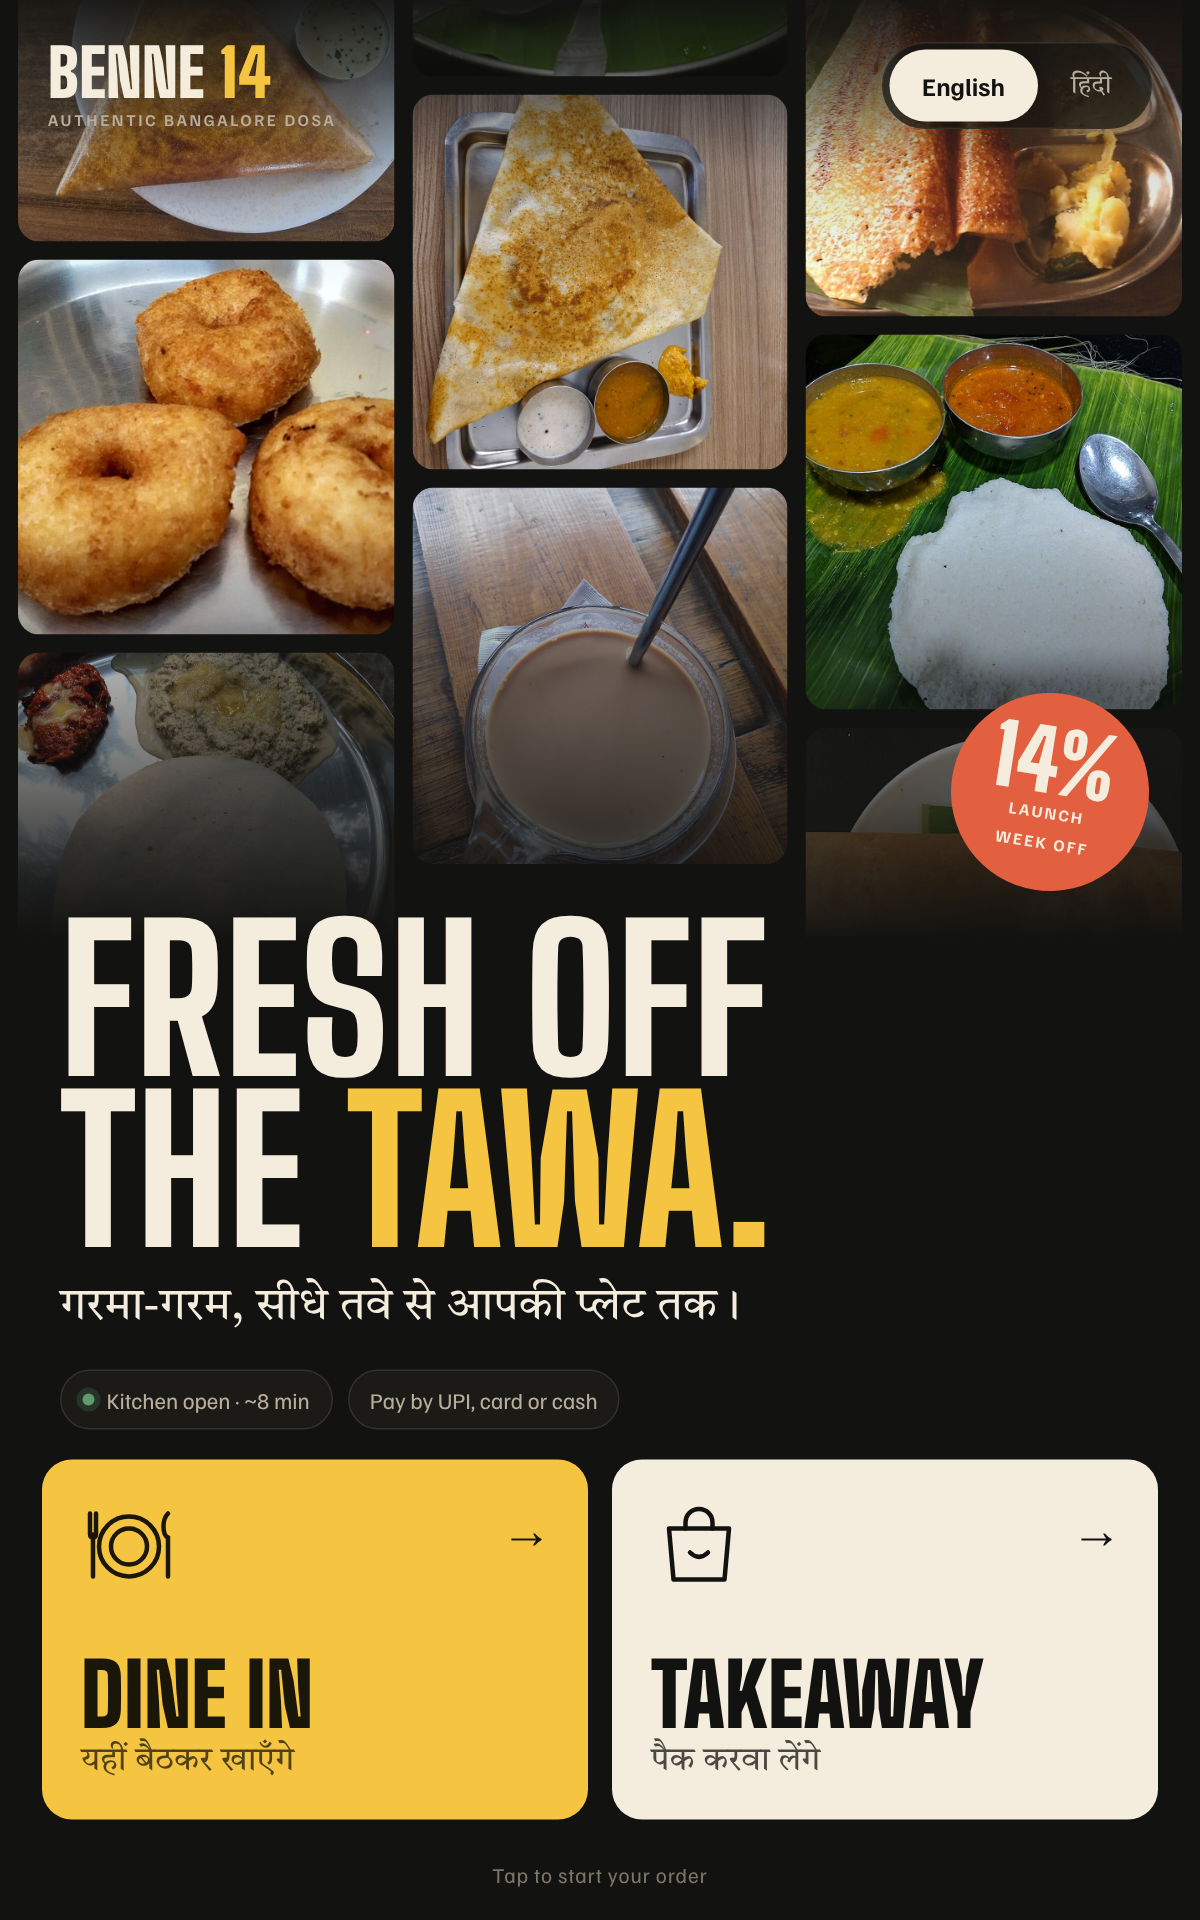
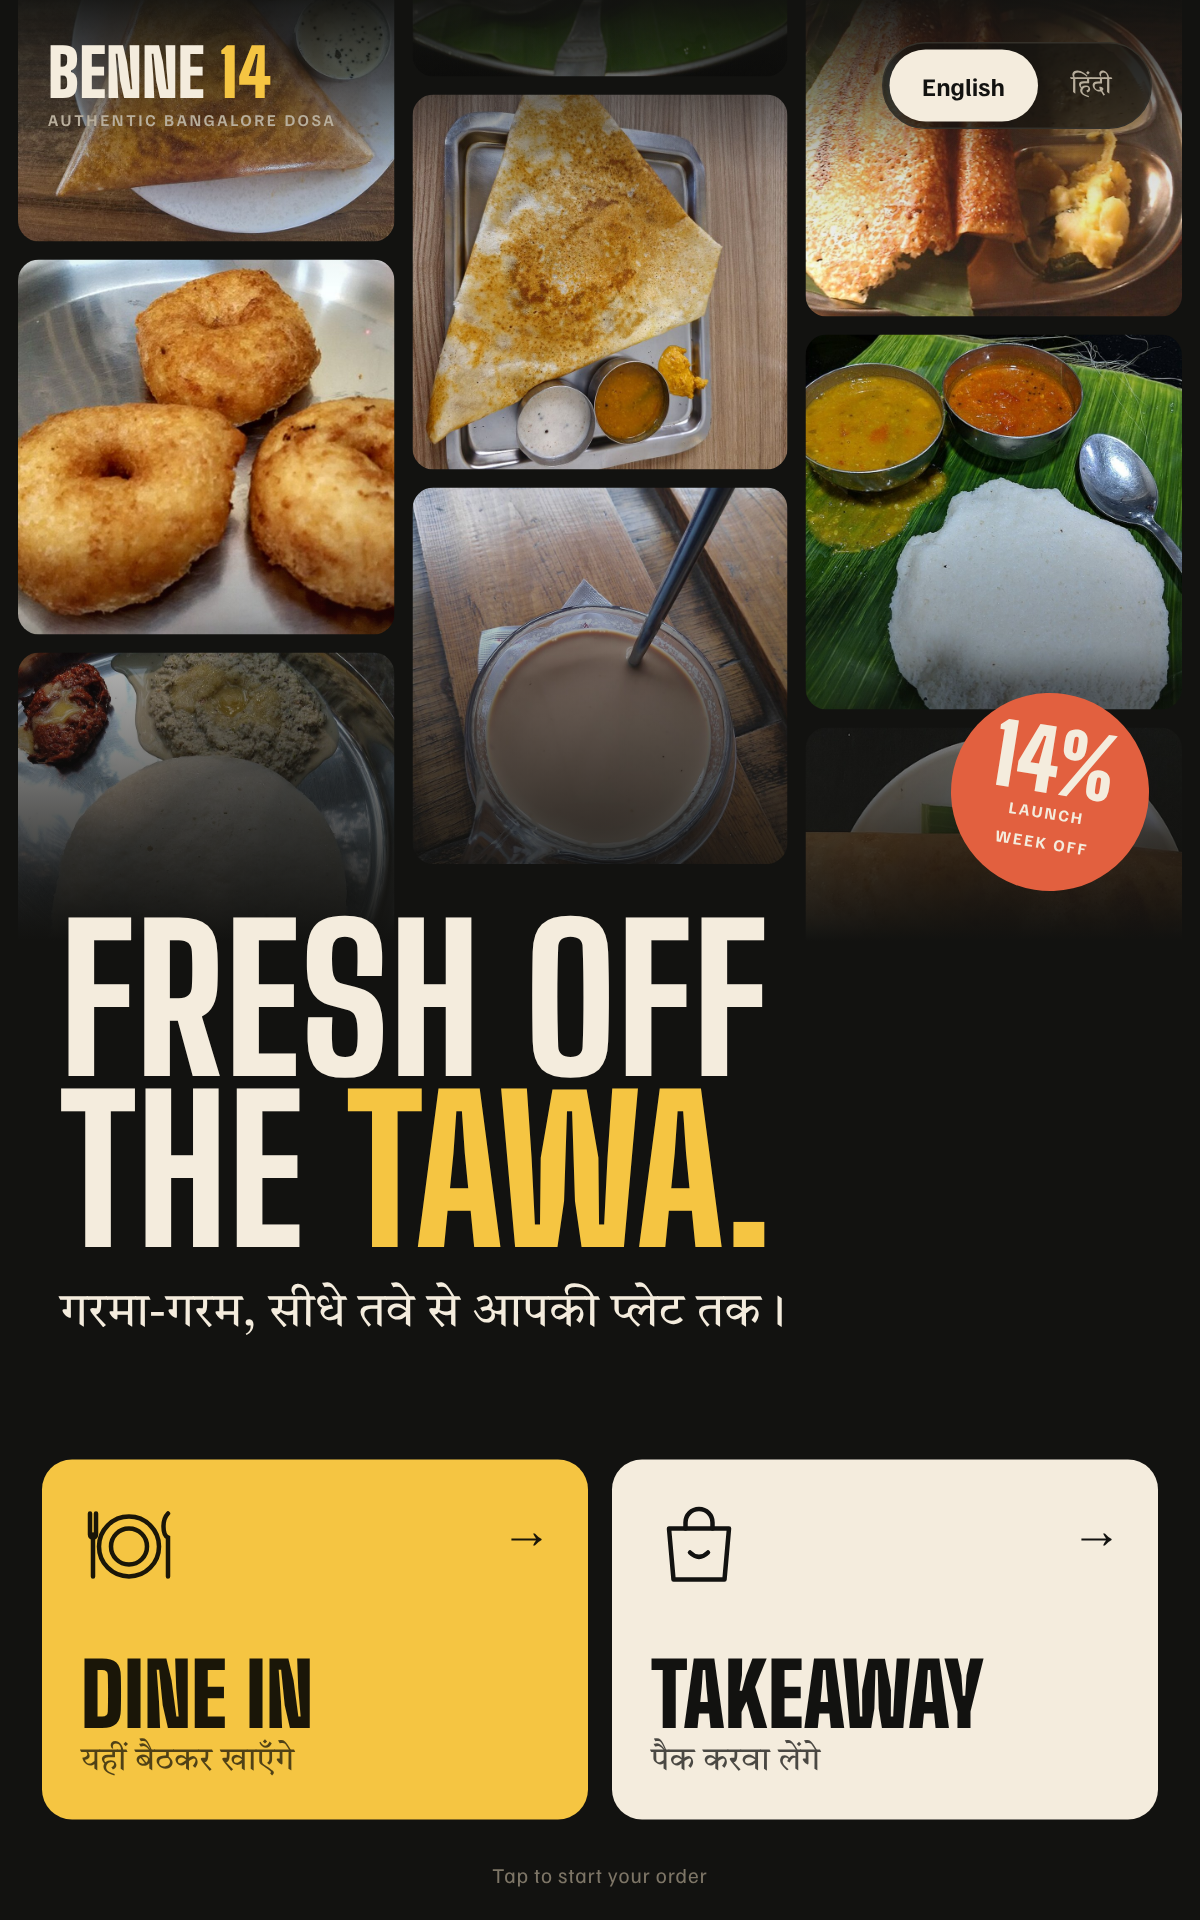
Redesign payment choice as full tiles; drop chip clutter
Payment options become whole-tile buttons with UPI as the dominant
tile, replacing the icon-plus-arrow cards and pill chips that read as
generic. Also removes status chips from home and app-name chips from
the UPI scan screen.

Claude-Session: https://claude.ai/code/session_01Dbfu4PDT3Rbs4kfZJUwCve

diff --git a/prototype/kiosk-pay.html b/prototype/kiosk-pay.html
@@ -6,64 +6,96 @@
 <title>Benne 14 — Payment method</title>
 <link rel="stylesheet" href="theme.css">
 <style>
-  .screen{display:flex;flex-direction:column;padding:28px 32px 28px}
+  .screen{display:flex;flex-direction:column;padding:28px 32px 26px}
   .back{align-self:flex-start;height:64px;padding:0 22px 0 18px;border-radius:12px;border:1.5px solid var(--line);background:var(--s1);color:var(--cream);font-size:18px;font-weight:600;display:flex;align-items:center;gap:10px}
   .back span{font-size:26px;line-height:1}
-  .amount{margin:70px 0 8px}
+
+  .amount{margin:44px 0 0}
   .amount .eyebrow{font-size:14px}
   .amount b{display:block;font-family:var(--display);font-weight:900;font-size:200px;line-height:.82;color:var(--benne);margin-top:10px}
-  .amount .hi{font-size:32px;margin-top:12px}
-  .summary{display:flex;gap:10px;margin:26px 0 48px}
-  .summary span{height:40px;padding:0 14px;display:flex;align-items:center;border-radius:999px;background:var(--s1);border:1px solid var(--line);font-size:15px;color:var(--cream-2)}
+  .amount .hi{font-size:34px;margin-top:14px}
+  .meta{margin:18px 0 34px;font-size:18px;color:var(--cream-2)}
+  .meta em{font-style:normal;color:var(--chilli);font-weight:600}
 
-  .opts{display:flex;flex-direction:column;gap:20px}
-  .opt{border-radius:20px;border:1.5px solid var(--line);background:var(--s1);padding:34px 28px;display:grid;grid-template-columns:76px 1fr auto;gap:22px;align-items:center;text-align:left;color:var(--cream)}
-  .opt .ic{width:76px;height:76px;border-radius:16px;background:var(--s2);display:grid;place-items:center}
-  .opt .ic svg{width:42px;height:42px}
-  .opt h2{font-family:var(--display);font-weight:900;font-size:44px;line-height:.9;text-transform:uppercase}
-  .opt .hi{font-size:19px;color:var(--cream-2);margin-top:4px}
-  .opt p{font-size:15px;color:var(--cream-3);margin-top:8px;line-height:1.4}
-  .opt .go{width:64px;height:64px;border-radius:14px;border:1.5px solid var(--line);display:grid;place-items:center;font-size:28px}
-  .opt.rec{border-color:var(--benne);background:linear-gradient(180deg,rgba(245,197,66,.12),rgba(245,197,66,.03))}
-  .opt.rec .ic{background:var(--benne);color:var(--benne-ink)}
-  .opt.rec .go{background:var(--benne);border-color:var(--benne);color:var(--benne-ink)}
-  .tag{display:inline-block;margin-left:10px;vertical-align:middle;background:var(--leaf);color:#0F1A12;font-family:var(--body);font-size:12px;font-weight:700;letter-spacing:.12em;padding:5px 9px;border-radius:6px}
-  .apps{display:flex;gap:6px;margin-top:12px;flex-wrap:wrap}
-  .apps span{font-size:13px;font-weight:600;padding:5px 10px;border-radius:6px;background:var(--s2);color:var(--cream-2)}
-  .trust{margin-top:auto;display:flex;justify-content:center;gap:26px;font-size:14px;color:var(--cream-3)}
-  .trust span::before{content:"✓  ";color:var(--leaf);font-weight:700}
+  /* tiles: the whole tile is the button */
+  .tile{border:0;border-radius:24px;text-align:left;position:relative;overflow:hidden;display:block;width:100%}
+  .tile .big{font-family:var(--display);font-weight:900;text-transform:uppercase;line-height:.8;display:block}
+  .tile .hi{display:block}
+
+  .upi{height:372px;background:var(--benne);color:var(--benne-ink);padding:34px 36px}
+  .upi .lead{font-size:15px;font-weight:700;letter-spacing:.14em;text-transform:uppercase;opacity:.7}
+  .upi .big{font-size:176px;margin-top:16px}
+  .upi .hi{font-size:26px;margin-top:14px}
+  .upi .apps{position:absolute;left:36px;bottom:32px;font-size:16px;font-weight:600;opacity:.75}
+  .upi svg{position:absolute;right:40px;top:30px;width:250px;height:312px}
+
+  .row{display:grid;grid-template-columns:1fr 1fr;gap:16px;margin-top:16px}
+  .half{height:330px;padding:28px 28px 26px;display:flex;flex-direction:column;justify-content:flex-end}
+  .half svg{position:absolute;top:28px;left:28px;height:88px}
+  .half .big{font-size:80px}
+  .half .hi{font-size:22px;margin-top:8px}
+  .half small{display:block;font-size:15px;margin-top:8px;line-height:1.35}
+  .card{background:var(--cream);color:var(--bg)}
+  .card small{color:#6E6757}
+  .cash{background:var(--s2);color:var(--cream);box-shadow:inset 0 0 0 1.5px var(--line)}
+  .cash small{color:var(--cream-3)}
+
+  .note{margin-top:auto;text-align:center;font-size:18px;color:var(--cream-3)}
 </style>
 </head>
 <body>
 <div class="screen">
   <button class="back"><span>←</span>Order</button>
+
   <div class="amount">
     <div class="eyebrow">Amount to pay</div>
     <b>₹330</b>
     <div class="hi">कैसे पे करना चाहेंगे?</div>
   </div>
-  <div class="summary"><span>3 items</span><span>Takeaway</span><span>For Rahul</span><span style="color:var(--chilli)">You saved ₹48</span></div>
+  <div class="meta">3 items, takeaway, for Rahul. <em>Launch offer saved you ₹48.</em></div>
 
-  <div class="opts">
-    <button class="opt rec">
-      <span class="ic"><svg viewBox="0 0 42 42" fill="currentColor"><path d="M4 4h14v14H4zM8 8v6h6V8zM24 4h14v14H24zm4 4v6h6V8zM4 24h14v14H4zm4 4v6h6v-6zM24 24h5v5h-5zm9 0h5v5h-5zm-9 9h5v5h-5zm9 0h5v5h-5zm-4.5-4.5h5v5h-5z"/></svg></span>
-      <div><h2>UPI <span class="tag">FASTEST</span></h2><div class="hi">किसी भी UPI ऐप से स्कैन करें</div>
-        <div class="apps"><span>Google Pay</span><span>PhonePe</span><span>Paytm</span><span>BHIM</span><span>Any UPI app</span></div></div>
-      <span class="go">→</span>
+  <button class="tile upi">
+    <span class="lead">Most people pay this way</span>
+    <span class="big">UPI</span>
+    <span class="hi">किसी भी UPI ऐप से स्कैन करें</span>
+    <span class="apps">Google Pay, PhonePe, Paytm, BHIM or any UPI app</span>
+    <svg viewBox="0 0 250 312" fill="none" stroke="currentColor" stroke-width="8" stroke-linejoin="round">
+      <rect x="40" y="6" width="170" height="300" rx="28"/>
+      <path d="M100 26h50" stroke-linecap="round"/>
+      <g fill="currentColor" stroke="none">
+        <rect x="66" y="70" width="44" height="44"/><rect x="140" y="70" width="44" height="44"/><rect x="66" y="196" width="44" height="44"/>
+        <rect x="140" y="160" width="14" height="14"/><rect x="160" y="176" width="14" height="14"/><rect x="140" y="196" width="14" height="14"/>
+        <rect x="170" y="210" width="14" height="14"/><rect x="150" y="226" width="14" height="14"/><rect x="118" y="130" width="14" height="14"/>
+        <rect x="88" y="140" width="14" height="14"/><rect x="66" y="160" width="14" height="14"/><rect x="118" y="170" width="14" height="14"/><rect x="118" y="214" width="14" height="14"/>
+      </g>
+      <g fill="#F5C542" stroke="none"><rect x="77" y="81" width="22" height="22"/><rect x="151" y="81" width="22" height="22"/><rect x="77" y="207" width="22" height="22"/></g>
+      <path d="M20 150h210" stroke="#E2603F" stroke-width="6" stroke-linecap="round"/>
+    </svg>
+  </button>
+
+  <div class="row">
+    <button class="tile half card">
+      <svg viewBox="0 0 170 110" fill="none" stroke="currentColor" stroke-width="7" stroke-linejoin="round" stroke-linecap="round">
+        <rect x="4" y="14" width="136" height="90" rx="12"/><rect x="22" y="36" width="30" height="22" rx="4"/><path d="M22 84h44M80 84h22"/>
+        <path d="M150 32c8 8 8 26 0 34M160 22c14 14 14 40 0 54"/>
+      </svg>
+      <span class="big">Card</span>
+      <span class="hi">डेबिट / क्रेडिट कार्ड</span>
+      <small>Tap or insert on the machine at the counter</small>
     </button>
-    <button class="opt">
-      <span class="ic"><svg viewBox="0 0 42 42" fill="none" stroke="currentColor" stroke-width="2.6" stroke-linecap="round"><rect x="4" y="9" width="34" height="24" rx="4"/><path d="M4 16h34M10 26h8"/></svg></span>
-      <div><h2>Card</h2><div class="hi">डेबिट / क्रेडिट कार्ड</div><p>Tap or insert on the card machine at the counter.</p></div>
-      <span class="go">→</span>
-    </button>
-    <button class="opt">
-      <span class="ic"><svg viewBox="0 0 42 42" fill="none" stroke="currentColor" stroke-width="2.6" stroke-linecap="round" stroke-linejoin="round"><rect x="3" y="11" width="36" height="20" rx="3"/><circle cx="21" cy="21" r="5"/><path d="M9 16v10M33 16v10"/></svg></span>
-      <div><h2>Cash</h2><div class="hi">काउंटर पर नकद दें</div><p>Get your token now, pay at the counter. We start cooking once paid.</p></div>
-      <span class="go">→</span>
+    <button class="tile half cash">
+      <svg viewBox="0 0 170 110" fill="none" stroke="currentColor" stroke-width="7" stroke-linejoin="round">
+        <rect x="24" y="4" width="140" height="74" rx="8" opacity=".45"/>
+        <rect x="4" y="28" width="140" height="78" rx="8" fill="#25231E"/>
+        <circle cx="74" cy="67" r="20"/><path d="M66 58h17M66 66h17M70 58c10 0 10 14 0 14l12 12" stroke-linecap="round" stroke-width="5"/>
+      </svg>
+      <span class="big">Cash</span>
+      <span class="hi">काउंटर पर नकद दें</span>
+      <small>Take your token, pay at the counter</small>
     </button>
   </div>
 
-  <div class="trust"><span>Bill with GST</span><span>Instant e-receipt</span><span>Auto-refund if anything fails</span></div>
+  <div class="note hi">पेमेंट अटक गया? चिंता नहीं, पैसा अपने-आप वापस आ जाएगा।</div>
 </div>
 </body>
 </html>

diff --git a/prototype/kiosk-pay-upi.html b/prototype/kiosk-pay-upi.html
@@ -28,7 +28,7 @@
   .c3{bottom:-10px;left:-10px;border-right:0;border-top:0;border-radius:0 0 0 18px}
   .c4{bottom:-10px;right:-10px;border-left:0;border-top:0;border-radius:0 0 18px 0}
 
-  .apps{display:flex;gap:8px;margin-top:28px}
+  .apps{margin-top:28px;font-size:17px;color:var(--cream-2)}
   .apps span{font-size:15px;font-weight:600;padding:8px 14px;border-radius:8px;background:var(--s1);border:1px solid var(--line);color:var(--cream-2)}
   .wait{margin-top:30px;display:flex;align-items:center;gap:14px;height:64px;padding:0 26px;border-radius:999px;background:var(--s1);border:1px solid var(--line)}
   .pulse{width:14px;height:14px;border-radius:50%;background:var(--benne);box-shadow:0 0 0 6px rgba(245,197,66,.2),0 0 0 12px rgba(245,197,66,.08)}
@@ -62,7 +62,7 @@
     <div class="who"><div><b>Benne 14</b><small>Order A-042 · UPI</small></div><span>₹330</span></div>
   </div>
 
-  <div class="apps"><span>Google Pay</span><span>PhonePe</span><span>Paytm</span><span>BHIM</span><span>Any UPI app</span></div>
+  <div class="apps">Works with Google Pay, PhonePe, Paytm, BHIM or any UPI app</div>
 
   <div class="steps"><div><b>1</b>Open any UPI app<span class="hi">ऐप खोलें</span></div><div><b>2</b>Scan this QR<span class="hi">QR स्कैन करें</span></div><div><b>3</b>Enter UPI PIN<span class="hi">PIN डालें, हो गया</span></div></div>
   <div class="wait"><i class="pulse"></i><b>Waiting for your payment</b><span class="hi">· पेमेंट होते ही आगे बढ़ेंगे</span></div>

diff --git a/prototype/kiosk-home.html b/prototype/kiosk-home.html
@@ -27,7 +27,7 @@
   .copy{padding:0 40px;margin-top:-30px;position:relative;z-index:2}
   .copy h1{font-size:132px;line-height:.86}
   .copy h1 em{font-style:normal;color:var(--benne)}
-  .copy .hi{font-size:30px;color:var(--cream);margin-top:14px}
+  .copy .hi{font-size:32px;color:var(--cream);margin-top:18px}
   .live{display:flex;gap:10px;margin-top:22px}
   .live span{display:flex;align-items:center;gap:8px;height:40px;padding:0 14px;border-radius:999px;background:var(--s1);border:1px solid var(--line);font-size:15px;color:var(--cream-2)}
   .live .dot{width:8px;height:8px;border-radius:50%;background:var(--leaf);box-shadow:0 0 0 4px rgba(94,154,108,.2)}
@@ -60,7 +60,6 @@
   <div class="copy">
     <h1 class="disp">Fresh off<br>the <em>tawa.</em></h1>
     <div class="hi">गरमा-गरम, सीधे तवे से आपकी प्लेट तक।</div>
-    <div class="live"><span><i class="dot"></i>Kitchen open · ~8 min</span><span>Pay by UPI, card or cash</span></div>
   </div>
 
   <div class="choose">
